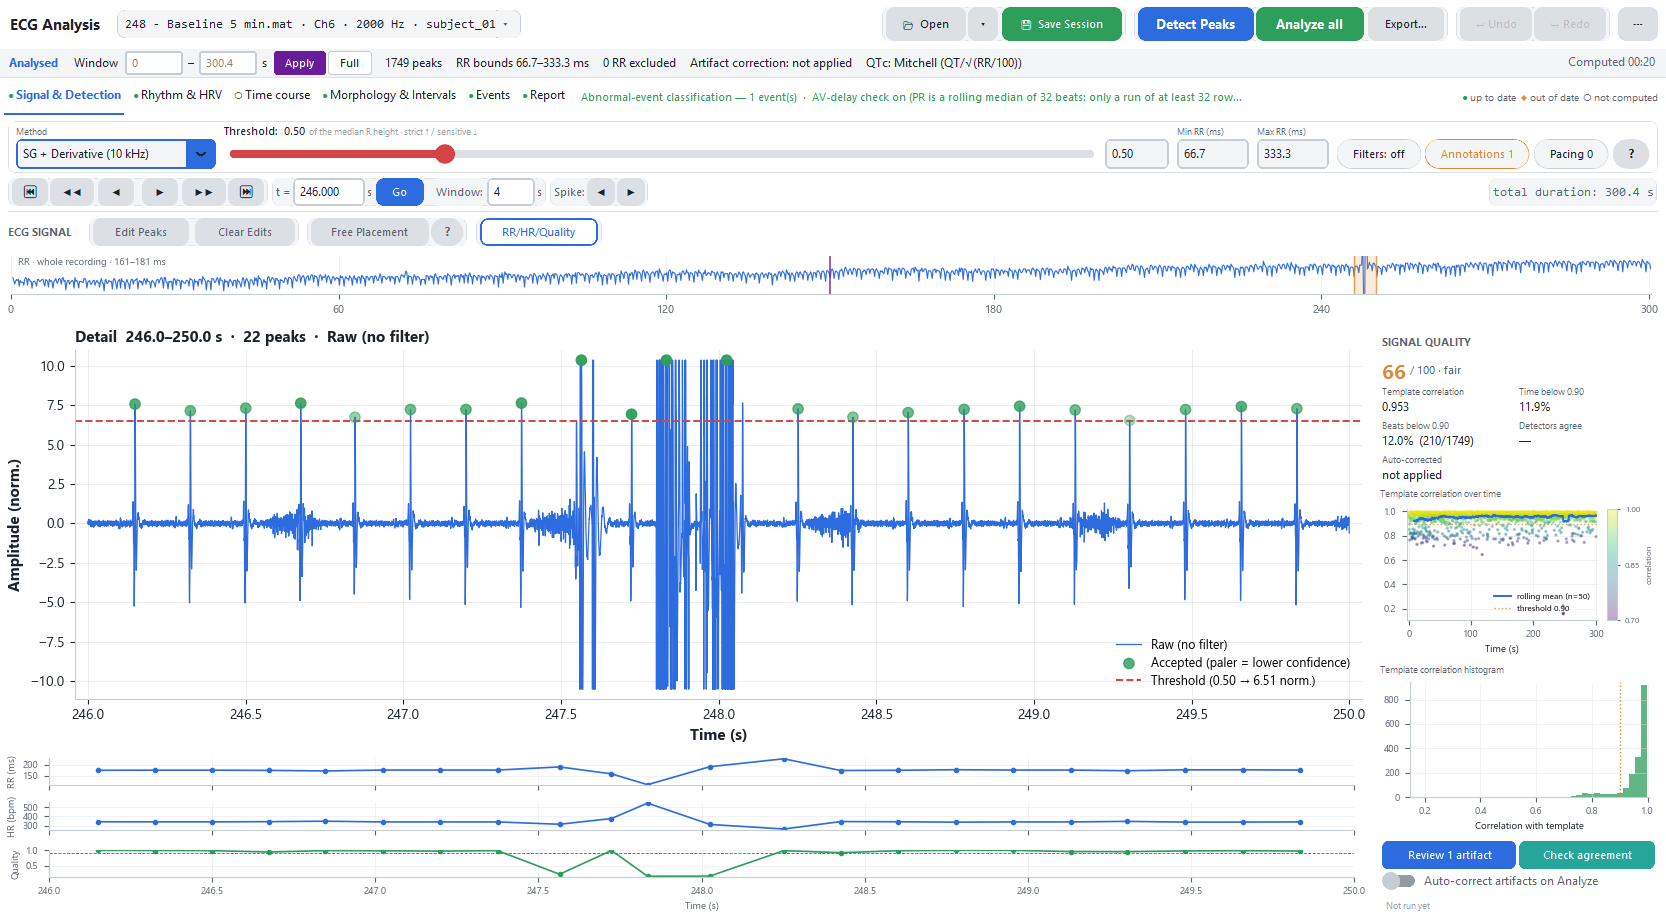
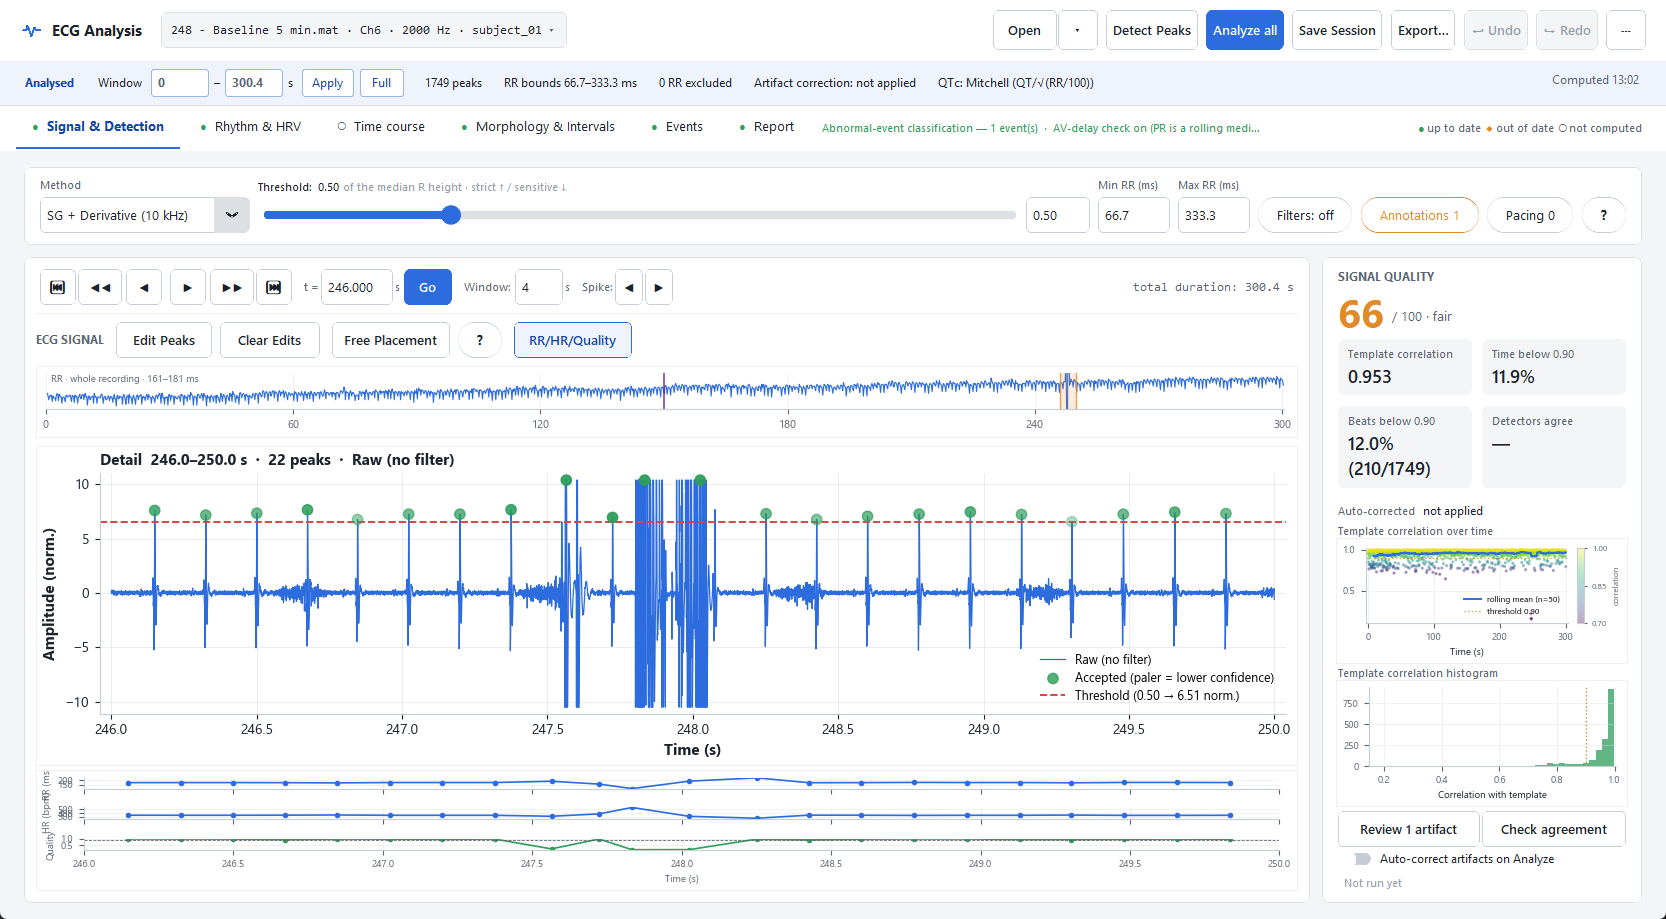
Retake the documentation screenshots in the mockup style; update REPRISE

diff --git a/docs/REPRISE.md b/docs/REPRISE.md
@@ -1,4 +1,4 @@
-# Reprise du travail (point de sauvegarde du 05/11/2026)
+# Reprise du travail (point de sauvegarde du 05/11/2026, style de la maquette)
 
 Pour reprendre depuis un autre poste : `git switch feature/ml-r-peak-detector`, installer les dépendances,
 copier quelques `.mat` hors du dépôt (ils ne vont pas sur GitHub).
@@ -12,7 +12,10 @@ copier quelques `.mat` hors du dépôt (ils ne vont pas sur GitHub).
 - Disposition sans barres latérales : barre de détection en haut de Signal & Detection, fiche Recording
   (clic sur la pastille du fichier), fenêtre d'analyse dans le bandeau, menu ⋯, Report > More.
   Fonctionne dès 1280×720. Chiffres identiques à la disposition précédente.
-- Tests : 1 363 passent. Captures de la doc refaites (sauf les deux de Parameters).
+- Style aligné sur la maquette (couleurs, boutons blancs bordés / bleu pour l'action principale,
+  cartes blanches sur fond gris, typographie Segoe UI) : valeurs dans `ecg/ui/theme.py`
+  (`button_style`, `card_style`, `input_style`…). Chiffres identiques à avant.
+- Tests : 1 362 passent. Captures de la doc refaites (sauf les deux de Parameters).
 - Maquette : https://claude.ai/artifact/AqCuLQZVQAnpzGvWJmEyNJ (privée, même compte).
 
 Résultats à N = 32 (médianes) :
